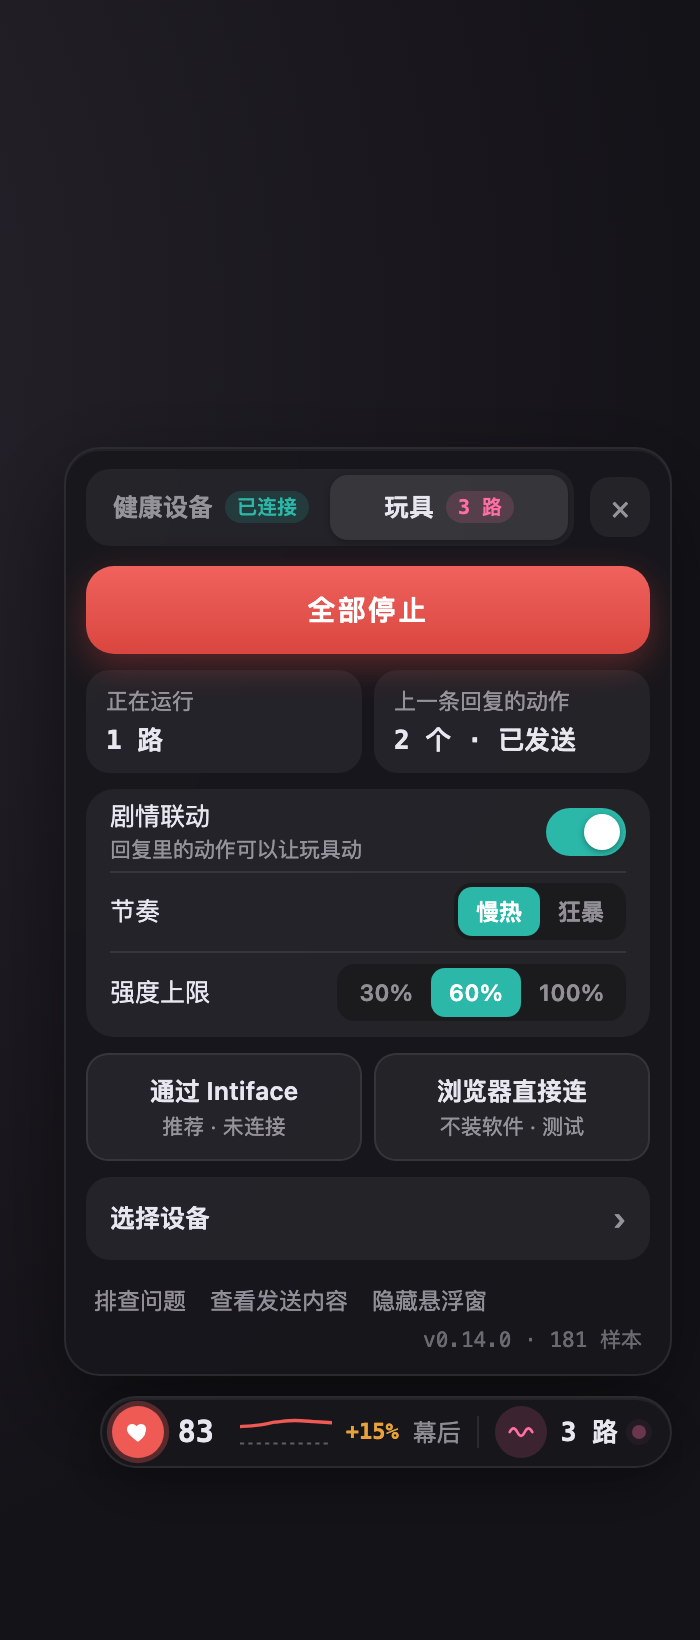
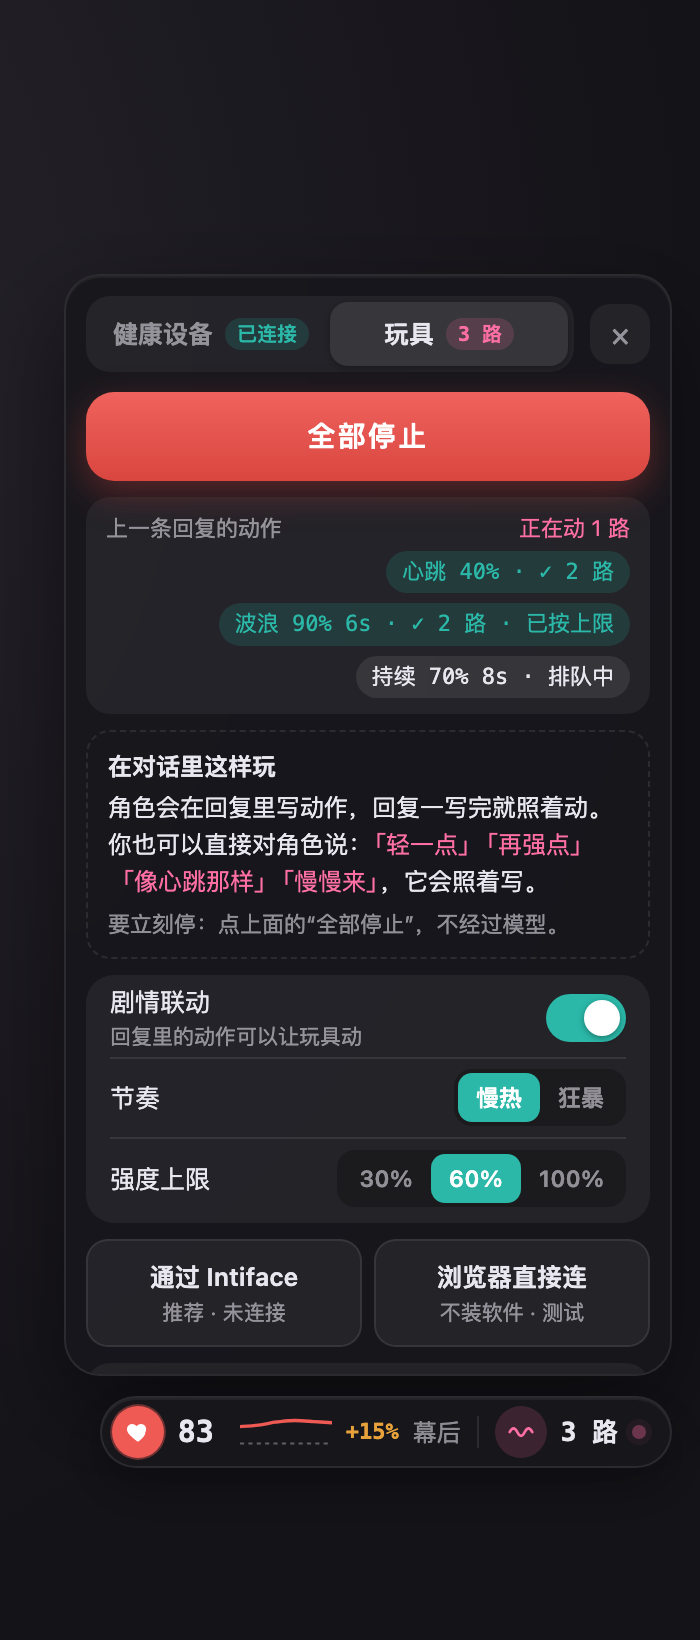
heartlink 0.15.0

diff --git a/index.js b/index.js
@@ -1,4 +1,4 @@
-// heartlink v0.14.0 — SillyTavern 扩展：心率注入 + 触觉输出（Tavern Bio-Context 参考实现）。构建产物。
+// heartlink v0.15.0 — SillyTavern 扩展：心率注入 + 触觉输出（Tavern Bio-Context 参考实现）。构建产物。
 // https://github.com/kcgoofee-jpg/heartlink-extension
 // heartlink core — 纯函数层。没有 DOM、没有蓝牙、没有酒馆 API，Node 和浏览器都能跑。
 // 运行时（runtime.js）和单元测试共用这一份。构建时与 runtime.js 拼成 dist/heartlink.js。
@@ -994,7 +994,7 @@ if (typeof module !== 'undefined' && module.exports) module.exports = HeartlinkH
 (function heartlinkRuntime() {
   'use strict';
 
-  const VERSION = '0.14.0';
+  const VERSION = '0.15.0';
   const CONFIG = {
     RUNTIME_KEY: '__HEARTLINK_RUNTIME__',
     PUBLIC_KEY: 'heartlink',
@@ -1030,7 +1030,7 @@ if (typeof module !== 'undefined' && module.exports) module.exports = HeartlinkH
     LAB_URL: 'http://127.0.0.1:12346/lab/',   // 设备实验室（~/dev/tbc/device-lab，npm run sim）
   };
   const LOG = '[heartlink]';
-  const GUIDE_BOOK = [{"name":"00 bio_context 读法（常驻）","enabled":true,"content":"<bio_context_guide>\n对话中可能出现一个 <bio_context> 块（Tavern Bio-Context v0.3）。块首行可能带 device / transport / cadence（采样间隔）/ rr（是否有心跳间期）/ trigger（本轮是新消息、重roll、continue 还是 impersonate）；cadence 越粗（30 秒以上）数据越稀疏，trigger 不是 normal 时 read 相位描述的是上一条被重roll或被续写的回复。它记录屏幕前那位真实读者在上一轮到这一轮之间的心率，按页面事件切成相位；数据来自读者佩戴的心率设备，是真实测量，不是剧情设定。\n相位归属（scope 行）：gen、read、read-pos 是读者等待和阅读**上一条回复**时的身体；write、send 是写**这一条消息**时和发送那一刻的身体。不要把 read 的峰值安到本轮新消息里发生的事情上。字段：\n- baseline：本场基线心率（quiet-median = 安静段中位数；p20 = 全场 20 分位；manual = 手动）与安静时 HRV。\n- prior：非实时来源（官方 API / 健康桥）的日级数据，带日期：昨夜恢复分、HRV、静息心率、睡眠时长、皮温。它说明读者今天的底子，不是此刻的反应；日期不是今天时不要当作今天。\n- history：最近几轮“读回复”的峰值、读时长、HRV，按时间顺序，最右是上一轮。看的是趋势：峰值一轮比一轮高说明越来越投入，越来越低说明在冷却。\n- gen：读者看上一条回复生成期间（ttft 等首字、reasoning 思维链、body 正文）的心率。\n- read：读上一条回复的时长、心率走向 [区间]、峰值出现在回复出完后多少秒、rr-loss（心跳间隔缺失率，越高说明手腕在动、数值可信度越低）、hrv。**这是最能反映读者对上一段内容反应的相位**；峰值时刻大致对应读到的位置。带 flag: too-long 的读回复不可当作阅读反应。\n- read-pos：把 read 的峰值时刻按阅读速度换算成大约读到回复的百分比与段落；est 是估计、cal 是按本场历史校准。它只回答“峰值大约对应哪一段”。写 partial 时表示读者读的时间远不够读完这条回复（在跳读或没读完），只给出峰值在读时长里的相对位置，不要当成段落位置。\n- cov：该相位的样本覆盖率，低于 70% 的相位数据不可靠。\n- write：写消息的时长、字数、停顿、删改与心率。手腕在动，只看大趋势。\n- away：页面切走或长时间无操作的区间，其中的心率与对话无关，忽略。\n- send：按下发送时的心率与相对基线的百分比。\n- env：读者所在房间的温湿度最近值，与身体反应无关，只是环境背景。\n- 其它信号行（如 pressure(civet, 100ms): read 7.9→12.3 kPa …）：读者身上别的传感器在同一相位里的走向，单位随行；只看相对变化，不与心率合成结论。\n- device：读者当前连接的设备正在做什么（强度、模式、持续时间），来自设备控制器的登记；它是作者视角的幕后事实，author 模式下角色不知道，character 模式下只允许角色察觉由它引起的可观察反应，不点名设备。\n- series：每 10 秒一个点的原始序列。\n判断尺度：baseline 为 n/a 时不做“比刚才 / 比平时快慢”的比较；与 away 重叠、带 flag 或 cov 低于 70% 的相位不据此判断。相对基线 10% 以内是噪声；持续高 20% 以上且出现在 read 相位，才是明确反应。HRV 明显低于安静值说明绷着或亢奋，明显高说明放松。块内没有结论，解释由你完成；块不出现时忽略本说明。\n</bio_context_guide>","strategy":{"type":"constant","keys":[]},"position":{"type":"after_character_definition","order":100},"recursion":{"prevent_incoming":true,"prevent_outgoing":true},"extra":{"heartlink":"0.14.0"}},{"name":"10 mode=backstage 幕后（旧 author）","enabled":true,"content":"<bio_context> 处于幕后模式（backstage，旧名 author）：它是给你这位作者/裁决者的幕后读者反馈，剧情里任何角色都不知道它，{{user}} 角色的身体状态与它无关。只做三件事：\n1. 从 read 与 history 判断读者对上一段的反应走向（被抓住了 / 平淡 / 正在冷却 / 数据不足），据此决定本段的详略、张力与结尾钩子；预设若有推进 / 节奏模式，结构（跳时、转场、新事件）仍按预设，读者反应只调写法。\n2. 反应上升时顺势推进、加深、留悬念；平淡时换手法（换视角、加冲突、加感官细节、缩短铺垫），不要重复上一段的写法；冷却时给一个新钩子。\n3. 不在正文里提及心率、设备、读者或任何数据；不让角色“察觉”读者；不因数据改变既定事实与规则裁决。","strategy":{"type":"selective","keys":["mode=\"backstage\"","mode=\"author\""]},"position":{"type":"at_depth","role":"system","depth":2,"order":90},"recursion":{"prevent_incoming":true,"prevent_outgoing":true},"extra":{"heartlink":"0.14.0"}},{"name":"11 mode=in-story 入戏（旧 character）","enabled":true,"content":"<bio_context> 处于入戏模式（in-story，旧名 character）：读者代入 {{user}}。send 是 {{user}} 此刻的身体状态；read 是 {{user}} 经历上一段情节时的反应（只能对应上一段里发生的事，不能安到本轮新动作上）。让在场角色通过可观察的线索察觉（呼吸、面色、手、声音、姿态），并按各自性格与关系回应。仍然不说数字、不提设备；gen、write、away 的数据不用于角色感知。首行若有 perceiver 属性（卡片指定的感知者），只让这些角色表达察觉，其他在场角色照常行动、不评论 {{user}} 的身体。","strategy":{"type":"selective","keys":["mode=\"in-story\"","mode=\"character\""]},"position":{"type":"at_depth","role":"system","depth":2,"order":90},"recursion":{"prevent_incoming":true,"prevent_outgoing":true},"extra":{"heartlink":"0.14.0"}}];
+  const GUIDE_BOOK = [{"name":"00 bio_context 读法（常驻）","enabled":true,"content":"<bio_context_guide>\n对话中可能出现一个 <bio_context> 块（Tavern Bio-Context v0.3）。块首行可能带 device / transport / cadence（采样间隔）/ rr（是否有心跳间期）/ trigger（本轮是新消息、重roll、continue 还是 impersonate）；cadence 越粗（30 秒以上）数据越稀疏，trigger 不是 normal 时 read 相位描述的是上一条被重roll或被续写的回复。它记录屏幕前那位真实读者在上一轮到这一轮之间的心率，按页面事件切成相位；数据来自读者佩戴的心率设备，是真实测量，不是剧情设定。\n相位归属（scope 行）：gen、read、read-pos 是读者等待和阅读**上一条回复**时的身体；write、send 是写**这一条消息**时和发送那一刻的身体。不要把 read 的峰值安到本轮新消息里发生的事情上。字段：\n- baseline：本场基线心率（quiet-median = 安静段中位数；p20 = 全场 20 分位；manual = 手动）与安静时 HRV。\n- prior：非实时来源（官方 API / 健康桥）的日级数据，带日期：昨夜恢复分、HRV、静息心率、睡眠时长、皮温。它说明读者今天的底子，不是此刻的反应；日期不是今天时不要当作今天。\n- history：最近几轮“读回复”的峰值、读时长、HRV，按时间顺序，最右是上一轮。看的是趋势：峰值一轮比一轮高说明越来越投入，越来越低说明在冷却。\n- gen：读者看上一条回复生成期间（ttft 等首字、reasoning 思维链、body 正文）的心率。\n- read：读上一条回复的时长、心率走向 [区间]、峰值出现在回复出完后多少秒、rr-loss（心跳间隔缺失率，越高说明手腕在动、数值可信度越低）、hrv。**这是最能反映读者对上一段内容反应的相位**；峰值时刻大致对应读到的位置。带 flag: too-long 的读回复不可当作阅读反应。\n- read-pos：把 read 的峰值时刻按阅读速度换算成大约读到回复的百分比与段落；est 是估计、cal 是按本场历史校准。它只回答“峰值大约对应哪一段”。写 partial 时表示读者读的时间远不够读完这条回复（在跳读或没读完），只给出峰值在读时长里的相对位置，不要当成段落位置。\n- cov：该相位的样本覆盖率，低于 70% 的相位数据不可靠。\n- write：写消息的时长、字数、停顿、删改与心率。手腕在动，只看大趋势。\n- away：页面切走或长时间无操作的区间，其中的心率与对话无关，忽略。\n- send：按下发送时的心率与相对基线的百分比。\n- env：读者所在房间的温湿度最近值，与身体反应无关，只是环境背景。\n- 其它信号行（如 pressure(civet, 100ms): read 7.9→12.3 kPa …）：读者身上别的传感器在同一相位里的走向，单位随行；只看相对变化，不与心率合成结论。\n- device：读者当前连接的设备正在做什么（强度、模式、持续时间），来自设备控制器的登记；它是作者视角的幕后事实，author 模式下角色不知道，character 模式下只允许角色察觉由它引起的可观察反应，不点名设备。\n- series：每 10 秒一个点的原始序列。\n判断尺度：baseline 为 n/a 时不做“比刚才 / 比平时快慢”的比较；与 away 重叠、带 flag 或 cov 低于 70% 的相位不据此判断。相对基线 10% 以内是噪声；持续高 20% 以上且出现在 read 相位，才是明确反应。HRV 明显低于安静值说明绷着或亢奋，明显高说明放松。块内没有结论，解释由你完成；块不出现时忽略本说明。\n</bio_context_guide>","strategy":{"type":"constant","keys":[]},"position":{"type":"after_character_definition","order":100},"recursion":{"prevent_incoming":true,"prevent_outgoing":true},"extra":{"heartlink":"0.15.0"}},{"name":"10 mode=backstage 幕后（旧 author）","enabled":true,"content":"<bio_context> 处于幕后模式（backstage，旧名 author）：它是给你这位作者/裁决者的幕后读者反馈，剧情里任何角色都不知道它，{{user}} 角色的身体状态与它无关。只做三件事：\n1. 从 read 与 history 判断读者对上一段的反应走向（被抓住了 / 平淡 / 正在冷却 / 数据不足），据此决定本段的详略、张力与结尾钩子；预设若有推进 / 节奏模式，结构（跳时、转场、新事件）仍按预设，读者反应只调写法。\n2. 反应上升时顺势推进、加深、留悬念；平淡时换手法（换视角、加冲突、加感官细节、缩短铺垫），不要重复上一段的写法；冷却时给一个新钩子。\n3. 不在正文里提及心率、设备、读者或任何数据；不让角色“察觉”读者；不因数据改变既定事实与规则裁决。","strategy":{"type":"selective","keys":["mode=\"backstage\"","mode=\"author\""]},"position":{"type":"at_depth","role":"system","depth":2,"order":90},"recursion":{"prevent_incoming":true,"prevent_outgoing":true},"extra":{"heartlink":"0.15.0"}},{"name":"11 mode=in-story 入戏（旧 character）","enabled":true,"content":"<bio_context> 处于入戏模式（in-story，旧名 character）：读者代入 {{user}}。send 是 {{user}} 此刻的身体状态；read 是 {{user}} 经历上一段情节时的反应（只能对应上一段里发生的事，不能安到本轮新动作上）。让在场角色通过可观察的线索察觉（呼吸、面色、手、声音、姿态），并按各自性格与关系回应。仍然不说数字、不提设备；gen、write、away 的数据不用于角色感知。首行若有 perceiver 属性（卡片指定的感知者），只让这些角色表达察觉，其他在场角色照常行动、不评论 {{user}} 的身体。","strategy":{"type":"selective","keys":["mode=\"in-story\"","mode=\"character\""]},"position":{"type":"at_depth","role":"system","depth":2,"order":90},"recursion":{"prevent_incoming":true,"prevent_outgoing":true},"extra":{"heartlink":"0.15.0"}}];
   const GUIDE_BOOK_NATIVE = [{"uid":0,"key":[],"keysecondary":[],"comment":"00 bio_context 读法（常驻）","content":"<bio_context_guide>\n对话中可能出现一个 <bio_context> 块（Tavern Bio-Context v0.3）。块首行可能带 device / transport / cadence（采样间隔）/ rr（是否有心跳间期）/ trigger（本轮是新消息、重roll、continue 还是 impersonate）；cadence 越粗（30 秒以上）数据越稀疏，trigger 不是 normal 时 read 相位描述的是上一条被重roll或被续写的回复。它记录屏幕前那位真实读者在上一轮到这一轮之间的心率，按页面事件切成相位；数据来自读者佩戴的心率设备，是真实测量，不是剧情设定。\n相位归属（scope 行）：gen、read、read-pos 是读者等待和阅读**上一条回复**时的身体；write、send 是写**这一条消息**时和发送那一刻的身体。不要把 read 的峰值安到本轮新消息里发生的事情上。字段：\n- baseline：本场基线心率（quiet-median = 安静段中位数；p20 = 全场 20 分位；manual = 手动）与安静时 HRV。\n- prior：非实时来源（官方 API / 健康桥）的日级数据，带日期：昨夜恢复分、HRV、静息心率、睡眠时长、皮温。它说明读者今天的底子，不是此刻的反应；日期不是今天时不要当作今天。\n- history：最近几轮“读回复”的峰值、读时长、HRV，按时间顺序，最右是上一轮。看的是趋势：峰值一轮比一轮高说明越来越投入，越来越低说明在冷却。\n- gen：读者看上一条回复生成期间（ttft 等首字、reasoning 思维链、body 正文）的心率。\n- read：读上一条回复的时长、心率走向 [区间]、峰值出现在回复出完后多少秒、rr-loss（心跳间隔缺失率，越高说明手腕在动、数值可信度越低）、hrv。**这是最能反映读者对上一段内容反应的相位**；峰值时刻大致对应读到的位置。带 flag: too-long 的读回复不可当作阅读反应。\n- read-pos：把 read 的峰值时刻按阅读速度换算成大约读到回复的百分比与段落；est 是估计、cal 是按本场历史校准。它只回答“峰值大约对应哪一段”。写 partial 时表示读者读的时间远不够读完这条回复（在跳读或没读完），只给出峰值在读时长里的相对位置，不要当成段落位置。\n- cov：该相位的样本覆盖率，低于 70% 的相位数据不可靠。\n- write：写消息的时长、字数、停顿、删改与心率。手腕在动，只看大趋势。\n- away：页面切走或长时间无操作的区间，其中的心率与对话无关，忽略。\n- send：按下发送时的心率与相对基线的百分比。\n- env：读者所在房间的温湿度最近值，与身体反应无关，只是环境背景。\n- 其它信号行（如 pressure(civet, 100ms): read 7.9→12.3 kPa …）：读者身上别的传感器在同一相位里的走向，单位随行；只看相对变化，不与心率合成结论。\n- device：读者当前连接的设备正在做什么（强度、模式、持续时间），来自设备控制器的登记；它是作者视角的幕后事实，author 模式下角色不知道，character 模式下只允许角色察觉由它引起的可观察反应，不点名设备。\n- series：每 10 秒一个点的原始序列。\n判断尺度：baseline 为 n/a 时不做“比刚才 / 比平时快慢”的比较；与 away 重叠、带 flag 或 cov 低于 70% 的相位不据此判断。相对基线 10% 以内是噪声；持续高 20% 以上且出现在 read 相位，才是明确反应。HRV 明显低于安静值说明绷着或亢奋，明显高说明放松。块内没有结论，解释由你完成；块不出现时忽略本说明。\n</bio_context_guide>","constant":true,"vectorized":false,"selective":true,"selectiveLogic":0,"addMemo":true,"order":100,"position":1,"disable":false,"excludeRecursion":true,"preventRecursion":true,"delayUntilRecursion":false,"probability":100,"useProbability":true,"depth":4,"group":"","groupOverride":false,"groupWeight":100,"scanDepth":null,"caseSensitive":false,"matchWholeWords":false,"useGroupScoring":null,"automationId":"","role":0,"sticky":0,"cooldown":0,"delay":0,"displayIndex":0},{"uid":1,"key":["mode=\"backstage\"","mode=\"author\""],"keysecondary":[],"comment":"10 mode=backstage 幕后（旧 author）","content":"<bio_context> 处于幕后模式（backstage，旧名 author）：它是给你这位作者/裁决者的幕后读者反馈，剧情里任何角色都不知道它，{{user}} 角色的身体状态与它无关。只做三件事：\n1. 从 read 与 history 判断读者对上一段的反应走向（被抓住了 / 平淡 / 正在冷却 / 数据不足），据此决定本段的详略、张力与结尾钩子；预设若有推进 / 节奏模式，结构（跳时、转场、新事件）仍按预设，读者反应只调写法。\n2. 反应上升时顺势推进、加深、留悬念；平淡时换手法（换视角、加冲突、加感官细节、缩短铺垫），不要重复上一段的写法；冷却时给一个新钩子。\n3. 不在正文里提及心率、设备、读者或任何数据；不让角色“察觉”读者；不因数据改变既定事实与规则裁决。","constant":false,"vectorized":false,"selective":true,"selectiveLogic":0,"addMemo":true,"order":90,"position":4,"disable":false,"excludeRecursion":true,"preventRecursion":true,"delayUntilRecursion":false,"probability":100,"useProbability":true,"depth":2,"group":"","groupOverride":false,"groupWeight":100,"scanDepth":null,"caseSensitive":false,"matchWholeWords":false,"useGroupScoring":null,"automationId":"","role":0,"sticky":0,"cooldown":0,"delay":0,"displayIndex":1},{"uid":2,"key":["mode=\"in-story\"","mode=\"character\""],"keysecondary":[],"comment":"11 mode=in-story 入戏（旧 character）","content":"<bio_context> 处于入戏模式（in-story，旧名 character）：读者代入 {{user}}。send 是 {{user}} 此刻的身体状态；read 是 {{user}} 经历上一段情节时的反应（只能对应上一段里发生的事，不能安到本轮新动作上）。让在场角色通过可观察的线索察觉（呼吸、面色、手、声音、姿态），并按各自性格与关系回应。仍然不说数字、不提设备；gen、write、away 的数据不用于角色感知。首行若有 perceiver 属性（卡片指定的感知者），只让这些角色表达察觉，其他在场角色照常行动、不评论 {{user}} 的身体。","constant":false,"vectorized":false,"selective":true,"selectiveLogic":0,"addMemo":true,"order":90,"position":4,"disable":false,"excludeRecursion":true,"preventRecursion":true,"delayUntilRecursion":false,"probability":100,"useProbability":true,"depth":2,"group":"","groupOverride":false,"groupWeight":100,"scanDepth":null,"caseSensitive":false,"matchWholeWords":false,"useGroupScoring":null,"automationId":"","role":0,"sticky":0,"cooldown":0,"delay":0,"displayIndex":2}];
   // 1.0：同一份源码构建两种形态——'script' 酒馆助手全局脚本（旧），'extension' 酒馆扩展
   const FORM = 'extension';
@@ -2221,6 +2221,25 @@ button:focus-visible{outline:2px solid var(--teal);outline-offset:2px}
 .pr.on em{color:var(--pink)}
 .pr span{font:10.5px var(--mono);color:var(--muted);text-align:right;white-space:nowrap;overflow:hidden;text-overflow:ellipsis}
 .pnote{color:var(--muted);font-size:11.5px;margin:6px 0 0}
+.sees{margin-bottom:8px;background:var(--raise);border-radius:12px;padding:8px 10px}
+.sh{display:flex;justify-content:space-between;align-items:center;font-size:11px;color:var(--muted);margin-bottom:3px}
+.sh button{border:0;background:transparent;color:var(--teal);font-size:11px;cursor:pointer;padding:0}
+.sh em{font-style:normal;color:var(--pink);font-size:11px}
+.sees p{margin:0;font-size:12px;line-height:1.5}
+.sees p i{color:var(--amber);font-style:normal}
+.ptext{margin:6px 0 0;max-height:12em;overflow:auto;white-space:pre-wrap;word-break:break-all;font:10px/1.45 var(--mono);color:var(--muted);background:rgba(0,0,0,.25);border-radius:8px;padding:6px 8px}
+.acts-last{margin-bottom:8px;background:var(--raise);border-radius:12px;padding:8px 10px}
+.chips{display:flex;flex-wrap:wrap;gap:5px;justify-content:flex-start;text-align:left}
+.chip{font:11px/1.2 var(--mono);padding:4px 8px;border-radius:999px;background:var(--raise2);color:var(--ink)}
+.chip.ok{background:var(--teal-soft);color:var(--teal)}
+.chip.no{background:rgba(232,162,60,.14);color:var(--amber)}
+.chip.idle{color:var(--muted);font-family:var(--font)}
+.chip i{font-style:normal}
+.howto{margin-bottom:8px;border:1px dashed var(--hair);border-radius:12px;padding:8px 10px;font-size:12px;line-height:1.55}
+.howto b{display:block;font-size:12px;margin-bottom:2px}
+.howto p{margin:0}
+.howto q{quotes:"「" "」";color:var(--pink);margin:0 1px}
+.muted2{color:var(--muted);font-size:11px;margin-top:3px!important}
 .baselab{display:flex;align-items:center;gap:6px;width:100%;margin-top:8px;border:0;background:transparent;padding:2px 0;cursor:pointer;font-size:11.5px;color:var(--muted);text-align:left}
 .baselab i{width:18px;border-top:1px dashed rgba(255,255,255,.6)}
 .baselab span{font:600 11.5px var(--mono);color:var(--ink)}
@@ -2318,7 +2337,12 @@ button:focus-visible{outline:2px solid var(--teal);outline-offset:2px}
         <div class="tile"><span>心率变异</span><b data-f="hrv">--</b></div>
         <div class="tile"><span>最近几轮峰值</span><b data-f="last">--</b></div>
       </div>
-      <div class="quote" data-f="sigBox"><span>模型上一轮的判断</span><div data-f="sig">--</div></div>
+      <div class="sees">
+        <div class="sh"><span>下次发送时，模型会收到</span><button data-act="preview">看原文</button></div>
+        <p data-f="sees">--</p>
+        <pre class="ptext" data-f="ptext" hidden></pre>
+      </div>
+      <div class="quote" data-f="sigBox"><span>模型上一轮的判断（回复里的读者信号）</span><div data-f="sig">--</div></div>
     </div>
     <div class="list">
       <div class="item"><div class="lab">模式<small data-f="modeHint">角色能察觉你的身体状态</small></div>
@@ -2334,9 +2358,14 @@ button:focus-visible{outline:2px solid var(--teal);outline-offset:2px}
   <section data-pane="toy">
     <button class="stop" data-act="halt">全部停止</button>
     <p class="empty" data-f="toyEmpty">还没连玩具：打开“剧情联动”，再选一种连接方式。两种方式能连的型号相同（buttplug 设备库）。</p>
-    <div class="tiles" data-f="toyTiles">
-      <div class="tile"><span>正在运行</span><b data-f="now">--</b></div>
-      <div class="tile"><span>上一条回复的动作</span><b data-f="lastact">--</b></div>
+    <div class="acts-last" data-f="toyTiles">
+      <div class="sh"><span>上一条回复的动作</span><em data-f="now"></em></div>
+      <div class="chips" data-f="lastact"></div>
+    </div>
+    <div class="howto">
+      <b>在对话里这样玩</b>
+      <p>角色会在回复里写动作，回复一写完就照着动。你也可以直接对角色说：<q>轻一点</q><q>再强点</q><q>像心跳那样</q><q>慢慢来</q>，它会照着写。</p>
+      <p class="muted2" data-f="howStop">要立刻停：点上面的“全部停止”。</p>
     </div>
     <div class="list">
       <div class="item"><div class="lab">剧情联动<small>回复里的动作可以让玩具动</small></div><button class="switch" role="switch" data-act="vib" aria-label="剧情联动"></button></div>
@@ -2354,7 +2383,6 @@ button:focus-visible{outline:2px solid var(--teal);outline-offset:2px}
 
   <div class="foot">
     <button data-act="help" data-f="helpBtn">排查问题</button>
-    <button data-act="preview">查看发送内容</button>
     <button data-act="hide">隐藏悬浮窗</button>
     <span class="ver">v${VERSION} <span data-f="foot"></span></span>
   </div>
@@ -2373,7 +2401,7 @@ button:focus-visible{outline:2px solid var(--teal);outline-offset:2px}
 </div>`;
     const q = (s) => root.querySelector(s);
     el = { heart: q('[data-seg="hr"] .heart'), bpm: q('.bpm'), poly: q('.spark path'), sparkRef: q('.spark .ref'), delta: q('.delta'), tag: q('[data-seg="hr"] .tag'), pill: q('.pill'), spark: q('.spark') };
-    ['base', 'read', 'hrv', 'last', 'dev', 'out', 'sig', 'sigBox', 'foot', 'hrBadge', 'toyBadge', 'hrEmpty', 'hrLive', 'hrDot', 'hrState', 'batt', 'tsvg', 'pseg', 'plist', 'pnote', 'baseMenu', 'modeHint', 'hrTools', 'toyEmpty', 'toyTiles', 'now', 'lastact', 'wasmState', 'help', 'devs', 'helpBtn']
+    ['base', 'read', 'hrv', 'last', 'dev', 'out', 'sig', 'sigBox', 'foot', 'hrBadge', 'toyBadge', 'hrEmpty', 'hrLive', 'hrDot', 'hrState', 'batt', 'tsvg', 'pseg', 'plist', 'pnote', 'baseMenu', 'modeHint', 'hrTools', 'toyEmpty', 'toyTiles', 'now', 'lastact', 'wasmState', 'help', 'devs', 'helpBtn', 'sees', 'ptext', 'howStop']
       .forEach((f) => { el[f] = q(`[data-f="${f}"]`); });
     el.seg = { hr: q('[data-seg="hr"]'), toy: q('[data-seg="toy"]'), none: q('[data-seg="none"]') };
     el.segsep = q('.segsep');
@@ -2420,7 +2448,7 @@ button:focus-visible{outline:2px solid var(--teal);outline-offset:2px}
         if (act === 'toy') { const on = !state.haptics.intiface.enabled; setHaptics({ intiface: { enabled: on } }); toast('info', on ? `正在连接 Intiface（${state.haptics.intiface.url}）；先在 Intiface Central 里点 Start Server` : '已断开 Intiface'); return; }
         if (act === 'hide') { setBadgeHidden(true); toast('info', '悬浮窗已隐藏。要恢复：点酒馆左下角的魔杖菜单 → “显示 heartlink 悬浮窗”。'); return; }
         if (act === 'halt') { actuators.stop(); closePanel(); toast('info', '已停止所有设备'); return; }
-        if (act === 'preview') { console.log(LOG, 'preview:\n' + compose().text); toast('info', '这一轮要发给模型的内容已打印到浏览器控制台'); return; }
+        if (act === 'preview') { el.ptext.hidden = !el.ptext.hidden; btn.textContent = el.ptext.hidden ? '看原文' : '收起'; if (!el.ptext.hidden) { el.ptext.textContent = compose().text; console.log(LOG, 'preview:\n' + el.ptext.textContent); } return; }
         if (act === 'basemenu') { el.baseMenu.hidden = !el.baseMenu.hidden; return; }
         if (act === 'baseline') { el.baseMenu.hidden = true; return setManualBaseline(); }
         if (act === 'clear') { el.baseMenu.hidden = true; return clearManualBaseline(); }
@@ -2630,6 +2658,7 @@ button:focus-visible{outline:2px solid var(--teal);outline-offset:2px}
     }).join('');
     el.base.textContent = base ? `平静心率 ${base.bpm}（${BASE_SHORT[base.method] || base.method}）` : '平静心率：数据还不够，稍后自动算出';
   }
+  const fmtSec = (sec) => (sec >= 60 ? `${Math.floor(sec / 60)} 分 ${sec % 60} 秒` : `${sec} 秒`);
   const esc = (v) => String(v == null ? '' : v).replace(/[&<>"]/g, (ch) => ({ '&': '&amp;', '<': '&lt;', '>': '&gt;', '"': '&quot;' }[ch]));
   const BASE_SHORT = { manual: '手动', 'quiet-median': '自动', p20: '估算' };
   function render() {
@@ -2703,6 +2732,20 @@ button:focus-visible{outline:2px solid var(--teal);outline-offset:2px}
       const hist = history(); const lastTurn = hist[hist.length - 1];
       el.hrv.innerHTML = lastTurn ? (lastTurn.hrv != null ? `${lastTurn.hrv} <i>ms</i>` : '<i>信号不足</i>') : (base && base.hrv ? `${base.hrv} <i>ms</i>` : '--');
       el.last.textContent = hist.length ? hist.slice(-5).map((x) => x.readPeak).join(' ') : '--';
+      // 这一轮会注入什么（一句话），让人看懂“按相位切心跳”到底给了模型什么
+      if (state.injectEnabled === false) el.sees.innerHTML = '<i>“发给模型”已关，模型收不到这些数据。</i>';
+      else {
+        const c2 = compose(now);
+        const sm = c2.summary;
+        const parts = [];
+        if (sm) {
+          parts.push(`读上一条回复 ${fmtSec(sm.readSec)}，峰值 <b>${sm.readPeak}</b>${base ? `（比平静 ${sm.readPeak >= base.bpm ? '+' : ''}${Math.round((sm.readPeak - base.bpm) / base.bpm * 100)}%）` : ''}`);
+          if (sm.writeSec) parts.push(`写这条 ${fmtSec(sm.writeSec)}`);
+        } else parts.push('还没有“读回复”相位（等角色回复后开始记）');
+        parts.push(`${mode === 'author' ? '幕后：只影响写法，角色不提' : '入戏：角色可以察觉你的身体状态'}`);
+        el.sees.innerHTML = parts.join(' · ');
+        if (!el.ptext.hidden) el.ptext.textContent = c2.text;
+      }
       const sig = lastSignal();
       el.sigBox.hidden = !sig;
       el.sig.textContent = sig ? sig.text : '';
@@ -2725,10 +2768,20 @@ button:focus-visible{outline:2px solid var(--teal);outline-offset:2px}
     el.wasmBtn.className = 'btn' + (WASM.client ? ' on' : '');
     el.toyEmpty.hidden = nToy > 0;
     el.toyTiles.hidden = nToy === 0;
-    el.now.innerHTML = busy.length ? `${busy.length} 路` : '<i>没有</i>';
+    el.now.textContent = busy.length ? `正在动 ${busy.length} 路` : '';
     const lastReply = (state.replyLog || []).filter((x) => x.chatId === chatId()).slice(-1)[0];
     const SKIP_ZH = { disabled: '联动没开', 'replies-off': '回复联动关了', 'no-device': '没有设备', safeword: '安全词拦下' };
-    el.lastact.innerHTML = lastReply ? `${lastReply.acts.length} 个 · ${lastReply.skipped ? `<i>${esc(SKIP_ZH[lastReply.skipped] || lastReply.skipped)}</i>` : lastReply.results.length ? '已发送' : '排队中'}` : '<i>还没有</i>';
+    const PAT_ZH = { pulse: '轻点', double: '两下', triple: '三下', long: '持续', heartbeat: '心跳', wave: '波浪' };
+    if (!lastReply) el.lastact.innerHTML = '<span class="chip idle">还没有：角色写出动作后会列在这里</span>';
+    else el.lastact.innerHTML = lastReply.acts.map((a, i) => {
+      const r = lastReply.results[i];
+      const okN = r ? r.results.filter((x) => x.ok).length : 0;
+      const state2 = lastReply.skipped ? `<i>${esc(SKIP_ZH[lastReply.skipped] || lastReply.skipped)}</i>` : r ? (okN ? `✓ ${okN} 路` : '<i>没执行</i>') : '<i>排队中</i>';
+      const clipped = r && r.results.some((x) => x.clipped) ? ' · 已按上限' : '';
+      return `<span class="chip${lastReply.skipped || (r && !okN) ? ' no' : r ? ' ok' : ''}">${esc(PAT_ZH[a.pattern] || a.pattern)} ${Math.round((a.intensity ?? 0.5) * 100)}%${a.durationMs ? ` ${(a.durationMs / 1000).toFixed(a.durationMs % 1000 ? 1 : 0)}s` : ''} · ${state2}${clipped}</span>`;
+    }).join('') || '<span class="chip idle">这条回复没有动作</span>';
+    const sw = state.haptics.safeWords;
+    el.howStop.textContent = sw && sw.enabled ? `要立刻停：点“全部停止”，或在消息里说“${(sw.words || [])[0] || '停下'}”（安全词已开）。` : '要立刻停：点上面的“全部停止”，不经过模型。';
     if (hostEl.classList.contains('devs')) {
       const OUT_ZH = { Vibrate: '振动', Oscillate: '往复', Rotate: '旋转', Constrict: '收缩', HwPositionWithDuration: '抽动', Position: '位置', Estim: '电刺激', Temperature: '加热' };
       const groups = {};

diff --git a/CHANGELOG.md b/CHANGELOG.md
@@ -1,5 +1,10 @@
 # 更新记录
 
+## 0.15.0
+
+- 健康设备页新增“下次发送时，模型会收到”：一句话说明这一轮会发给模型什么，“看原文”直接在面板里展开完整内容。
+- 玩具页新增“上一条回复的动作”（每个动作的模式、强度、时长、执行结果）和“在对话里这样玩”说明。
+
 ## 0.14.0
 
 - 相位显示重做：一条本轮心率走势，底色按相位分段（看生成再细分为等首字 / 思考 / 正文，读回复，写消息），页面切走的时段打斜线“不计”；下面每个相位一行，写时长、读回复的峰值、离开了多久。
